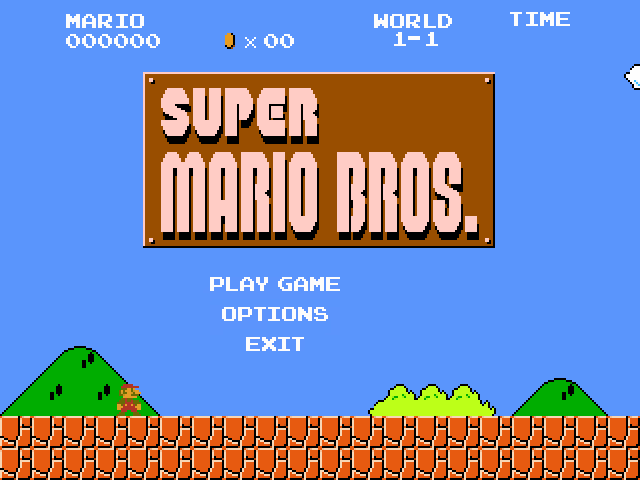
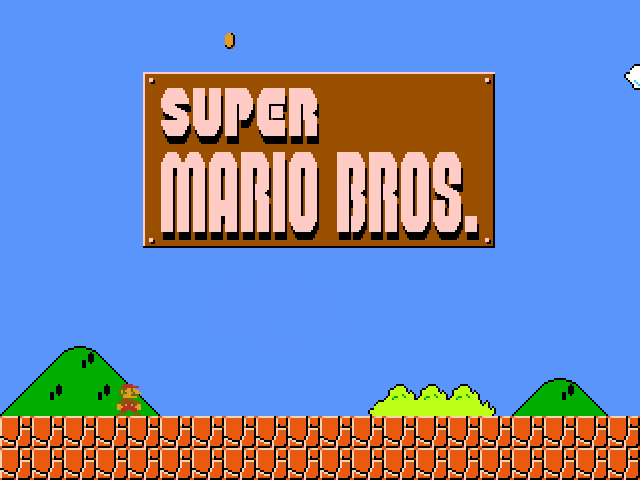
repair Menu

diff --git a/src/background.cpp b/src/background.cpp
@@ -1,0 +1,56 @@
+#include "background.h"
+#include "app_config.h"
+#include "raylib.h"
+
+void HandleButtonClicks(std::vector<Button>& buttons, Texture2D& currentBackground, Texture2D background1, Texture2D background2, const Config& config)
+{
+    for (auto& button : buttons)
+    {
+        if(button.IsClicked())
+        {
+            if (button.GetText() == "OPTION")
+            {
+                currentBackground = background2;
+                CreateButtons(buttons, config, currentBackground);
+            }
+            if (button.GetText() == "RETURN")
+            {
+                currentBackground = background1;
+                CreateButtons(buttons, config, currentBackground);
+            }
+            else if (button.GetText() == "PLAY GAME")
+            {
+
+            }
+            TraceLog(LOG_INFO, "Button text = ", button.GetText().c_str());
+            button.setClicked(false);
+        }
+    }
+}
+void CreateButtons(std::vector<Button>& buttons, const Config& config, Texture2D currentBackground)
+{
+    buttons.clear();
+    if (currentBackground.id == 3)
+    {
+        buttons.push_back(Button("PLAY GAME", { 270, 285 }));
+        buttons.push_back(Button("OPTION", { 270, 315 }));
+        buttons.push_back(Button("EXIT",{270, 345}));
+        buttons.push_back(Button("x 00", { 240, 30 },false));
+        buttons.push_back(Button("000000", { 55, 30 },false));
+        buttons.push_back(Button("1 - 1", { 390, 30 },false));
+        buttons.push_back(Button("MARIO", { 55, 10 },false));
+        buttons.push_back(Button("WORLD", { 365, 10 },false));
+        buttons.push_back(Button("TIME", { 505, 10 },false));
+    }
+    else
+    {
+        buttons.push_back(Button("RETURN", { 135, 135 }));
+        buttons.push_back(Button("MUTE", { 135, 165 }));
+        buttons.push_back(Button("x 00", { 240, 30 },false));
+        buttons.push_back(Button("000000", { 55, 30 },false));
+        buttons.push_back(Button("1 - 1", { 390, 30 },false));
+        buttons.push_back(Button("MARIO", { 55, 10 },false));
+        buttons.push_back(Button("WORLD", { 365, 10 },false));
+        buttons.push_back(Button("TIME", { 505, 10 },false));
+    }
+}

diff --git a/src/button.cpp b/src/button.cpp
@@ -1,0 +1,91 @@
+#include "button.h"
+
+#include <iostream>
+#include <utility>
+#include "app_config.h"
+#include "raylib.h"
+
+
+Button::Button(std::string text, Vector2 position, bool canClick) : text(std::move(text)), basePosition(position), canClick(canClick)
+{
+    baseBounds.x = position.x;
+    baseBounds.y = position.y;
+    baseBounds.width = 0;
+    baseBounds.height =0;
+    UpdateBounds();
+    newPosition = basePosition;
+}
+
+void Button::UpdateBounds()
+{
+    Vector2 measure = MeasureTextEx(GetFontDefault(), text.c_str(), 20, 0);
+    baseBounds.width = measure.x;
+    baseBounds.height = measure.y;
+    bounds = baseBounds;
+}
+
+
+void Button::DrawButton(const Config& config)
+{
+    DrawText(text.c_str(),newPosition.x,newPosition.y,config.fontSize,textColor);
+}
+
+Rectangle Button::getBounds()
+{
+    return baseBounds;
+}
+
+void Button::setBounds(const Rectangle& updateBounds)
+{
+    bounds = updateBounds;
+}
+
+
+void Button::UpdateButton(const Config& config)
+{
+    Vector2 mousePos = GetMousePosition();
+    if (CheckCollisionPointRec(mousePos, bounds) && canClick) {
+        textColor = hoverColor;
+        if (IsMouseButtonPressed(0)) {
+            clicked = true;
+            textColor = clickColor;
+        }
+    } else {
+        textColor = WHITE;
+    }
+}
+
+bool Button::IsClicked()
+{
+    return clicked;
+}
+
+std::string Button::GetText()
+{
+     return text;
+}
+
+void Button::setClicked(bool clicked)
+{
+    this->clicked = clicked;
+}
+
+void Button::setSize(const float& size)
+{
+    baseFontSize = size;
+}
+
+Vector2 Button::GetOriginalPosition()
+{
+    return basePosition;
+}
+
+
+void Button::setPosition(const Vector2& updatePosition )
+{
+    newPosition = updatePosition;
+}
+
+
+
+

diff --git a/src/Game.cpp b/src/Game.cpp
@@ -1,3 +1,4 @@
+/*
 #include "Game.h"
 
 #include <iostream>
@@ -33,7 +34,7 @@ void Game::HandleInput(){
         frame.clearElements();
         if (frame.getBackgroundByPath("../Resources/images/menu/Untitled.png"))
         {
-            frame.addElement(new UIText("PLAY GAME", { 270, 285 }, 25));
+            frame.addElement(new UIText("PLAY GAME", { 270, 270 }, 25));
             auto *option = new UIText("OPTION", { 270, 315 }, 25);
             frame.addElement(option);
             frame.addElement(new UIText("EXIT", { 270, 345 }, 25));
@@ -45,10 +46,6 @@ void Game::HandleInput(){
             frame.addElement(new UIText("MARIO", { 55, 10 }, 25,false));
             frame.addElement(new UIText("WORLD", { 365, 10 }, 25,false));
             frame.addElement(new UIText("TIME", { 505, 10 }, 25, false));
-            if (IsMouseButtonPressed(MOUSE_BUTTON_LEFT))
-            {
-                std::cout << "MARIO" << std::endl;
-            }
         }
         else
         {
@@ -84,13 +81,13 @@ void RunGame(Player& player, Map& map, Camera2D& camera) {
         float delta = GetFrameTime();
 
         // Handle input
-        if (IsKeyPressed(KEY_T)) {
+        /*if (IsKeyPressed(KEY_T)) {
             player.StartTransformation(
                 ResourcesManager::getInstance().getA("superMario"),
                 ResourcesManager::getInstance().getA("superMarioJump"),
                 ResourcesManager::getInstance().getA("superMarioRun")
             );
-        }
+        }#1#
         if (IsKeyPressed(KEY_R)) {
             if (player.fireballsActive)
                 player.DeactivateFireballs();
@@ -115,3 +112,4 @@ void RunGame(Player& player, Map& map, Camera2D& camera) {
         EndDrawing();
     }
 }
+*/

diff --git a/src/button.h b/src/button.h
@@ -1,0 +1,40 @@
+#ifndef BUTTON_H
+#define BUTTON_H
+
+#include <string>
+#include "raylib.h"
+#include "app_config.h"
+
+class Button
+{
+private:
+    std::string text;
+    Vector2 basePosition;
+    Vector2 newPosition;
+    Color textColor = WHITE;
+    Color hoverColor = YELLOW;
+    Color clickColor = BLUE;
+    bool clicked = false;
+    bool canClick;
+    float baseFontSize;
+    Rectangle baseBounds;
+    Rectangle bounds;
+public:
+    Button(std::string text, Vector2 position, bool canClick = true);
+    void DrawButton(const Config& config);
+    void UpdateButton(const Config& config);
+    bool IsClicked();
+    std::string GetText();
+    void setClicked(bool clicked);
+    void setSize(const float& size);
+    Vector2 GetOriginalPosition();
+    void setPosition(const Vector2& updatePosition);
+    Rectangle getBounds();
+    void setBounds(const Rectangle& updateBounds);
+    void UpdateBounds();
+};
+
+
+
+
+#endif

diff --git a/src/layout.cpp b/src/layout.cpp
@@ -1,0 +1,17 @@
+#include "layout.h"
+#include "app_config.h"
+#include "raylib.h"
+
+void UpdateLayout(std::vector<Button>& buttons, Config& config, int screenWidth, int screenHeight) {
+    for (auto &button: buttons) {
+        float scaleX = (float) screenWidth / config.baseScreenWidth;
+        float scaleY = (float) screenHeight / config.baseScreenHeight;
+
+        Vector2 newPosition = Vector2(button.GetOriginalPosition().x * scaleX, button.GetOriginalPosition().y * scaleY);
+        Rectangle newBounds = Rectangle(button.getBounds().x * scaleX, button.getBounds().y * scaleY
+        , button.getBounds().width * scaleX, button.getBounds().height * scaleY);
+        button.setBounds(newBounds);
+        button.setPosition(newPosition);
+        button.setSize(config.baseFontSize * scaleY);
+    }
+}

diff --git a/src/background.h b/src/background.h
@@ -1,0 +1,14 @@
+#ifndef BACKGROUND_H
+#define BACKGROUND_H
+
+#include "raylib.h"
+#include <vector>
+#include "button.h"
+#include "app_config.h"
+
+
+void HandleButtonClicks(std::vector<Button>& buttons, Texture2D& currentBackground, Texture2D background1, Texture2D background2, const Config& config);
+void CreateButtons(std::vector<Button>& buttons, const Config& config, Texture2D currentBackground);
+
+
+#endif

diff --git a/src/UIText.cpp b/src/UIText.cpp
@@ -3,7 +3,7 @@
 #include <iostream>
 #include <utility>
 
-UIText::UIText(std::string  text, Vector2 position, int fontSize, bool canPress)
+UIText::UIText(std::string text, Vector2 position, int fontSize, bool canPress)
     : text(std::move(text)), originalPosition(position), fontSize(fontSize)
     , scaleX(1.0f), scaleY(1.0f), isHovered(false), canPress(canPress), isClicked(false) {}
 

diff --git a/src/Fireball.cpp b/src/Fireball.cpp
@@ -12,7 +12,6 @@ Fireball::Fireball(Vector2 startPosition, Vector2 startVelocity, std::vector<Tex
 void Fireball::Update(float deltaTime) {
     position.x += velocity.x * deltaTime;
     position.y += velocity.y * deltaTime;
-
     frameCounter += deltaTime;
     if (frameCounter >= frameTime) {
         frameCounter = 0.0f;

diff --git a/src/Game.h b/src/Game.h
@@ -11,7 +11,6 @@
 class Game {
 private:
     UIFrame frame;
-    bool changeBackground = true;
 public:
     Game();
     ~Game();
@@ -19,7 +18,6 @@ public:
     void Run();
     void HandleInput();
     void DrawScene();
-    void AddMainMenuElements();
 };
 
 Camera2D initCamera(Player &player); 

diff --git a/src/layout.h b/src/layout.h
@@ -1,0 +1,11 @@
+#ifndef LAYOUT_H
+#define LAYOUT_H
+
+#include "raylib.h"
+#include <vector>
+#include "button.h"
+#include "app_config.h"
+
+void UpdateLayout(std::vector<Button>& buttons, Config& config, int screenWidth, int screenHeight);
+
+#endif

diff --git a/src/app_config.h b/src/app_config.h
@@ -1,0 +1,14 @@
+#ifndef APP_CONFIG_H
+#define APP_CONFIG_H
+
+#include "raylib.h"
+
+struct Config {
+    Color backgroundColor;
+    int fontSize;
+    float baseFontSize;
+    int baseScreenWidth;
+    int baseScreenHeight;
+};
+
+#endif

diff --git a/src/Player.cpp b/src/Player.cpp
@@ -1,6 +1,6 @@
 #include "Player.hpp"
 #include <cmath>
-#include <cstring>
+#include <bits/algorithmfwd.h>
 
 constexpr float GRAVITY = 1200.0f;
 constexpr float JUMP_VELOCITY = 600.0f;
